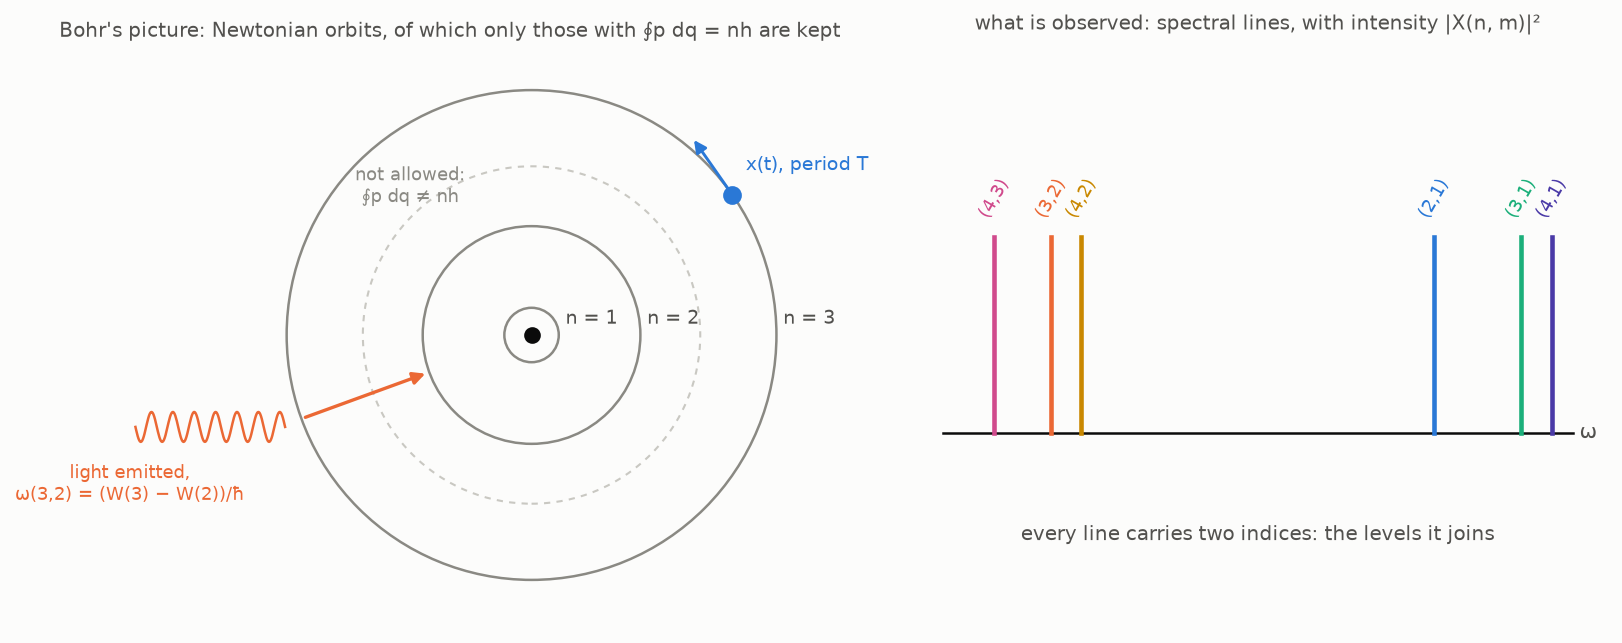
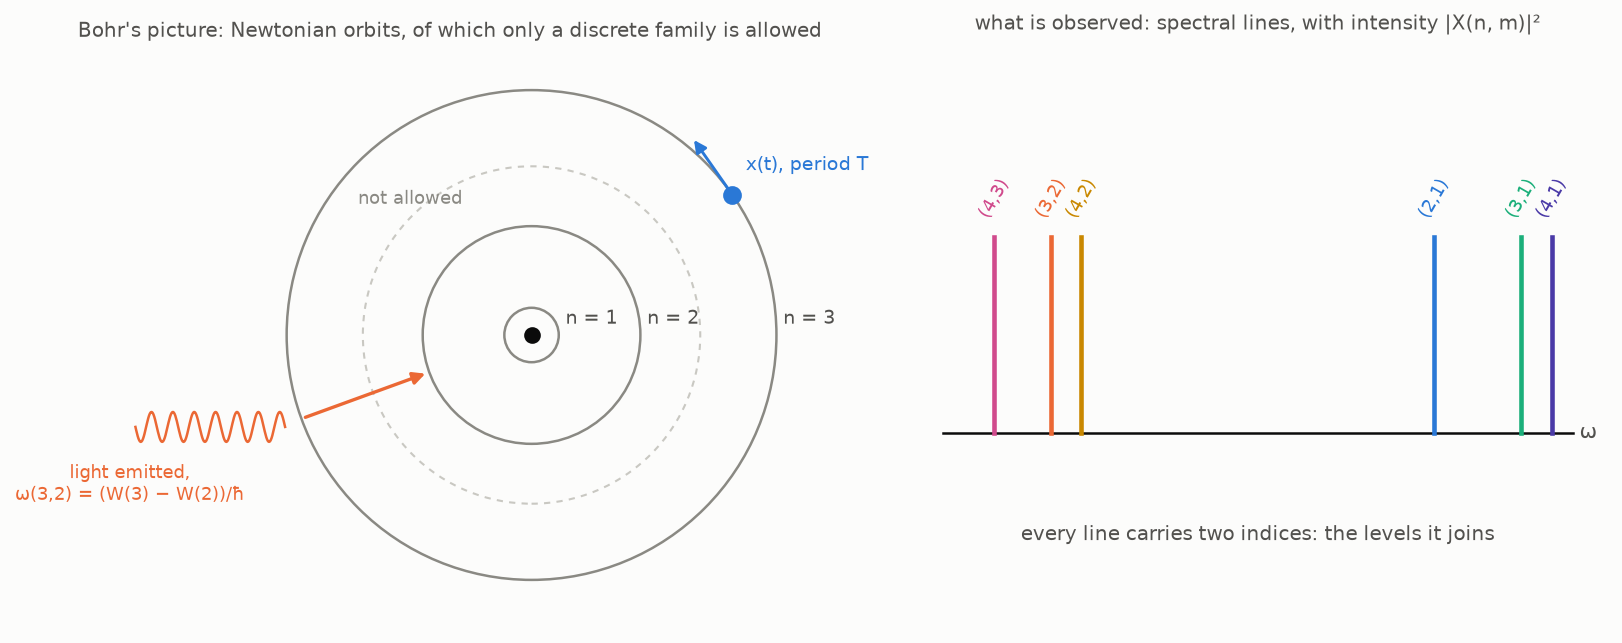
QM-3 draft: Bohr paragraph without the action formula; figure moved right after it and relabelled

Changed region(s): [[0.0308, 0.0311, 0.524, 0.0622], [0.2158, 0.2488, 0.2774, 0.3421]]

diff --git a/content/posts/observables-and-the-born-rule/index.md b/content/posts/observables-and-the-born-rule/index.md
@@ -101,11 +101,15 @@ throughout.
 The old quantum theory of Bohr pictured the electron as a classical
 particle on an orbit, with a position $x(t)$ and a period, and then
 added a rule that Newton's mechanics knows nothing about: of all the
-orbits the mechanics allows, only those are permitted whose action
-$\oint p\, dq$ is a whole multiple of Planck's constant, $nh$. The rule
-picked out the discrete energy levels $W(n)$ and explained the
-hydrogen spectrum; nothing in the theory explained the rule, and for
-atoms beyond hydrogen it failed. Heisenberg's opening move was to
+orbits the mechanics allows, only a discrete family is permitted,
+selected by a condition stated in terms of the orbit itself. The rule
+produced the discrete energy levels $W(n)$ and the hydrogen spectrum;
+nothing in the theory explained the rule, and for atoms beyond
+hydrogen it failed.
+
+![Bohr's picture on the left: Newtonian orbits, of which only a discrete family is kept, an electron with a position and a period, and a jump between orbits that emits light; on the right, what is actually observed — spectral lines, each joining two levels and carrying two indices](bohr_orbits.png)
+
+Heisenberg's opening move was to
 "discard all hope of observing hitherto unobservable quantities, such
 as the position and period of the electron", and to build "a
 theoretical quantum mechanics, analogous to classical mechanics, but
@@ -128,8 +132,6 @@ step — the first of what Aitchison and his coauthors call his
 $X(n, n - \alpha)\, e^{i\omega(n, n - \alpha) t}$ *stand for* the
 position $x(t)$: not a function of time any more, but a table of
 numbers indexed by pairs of states.
-
-![Bohr's picture on the left: Newtonian orbits, of which only those with ∮p dq = nh are kept, an electron with a position and a period, and a jump between orbits that emits light; on the right, what is actually observed — spectral lines, each joining two levels and carrying two indices](bohr_orbits.png)
 
 The multiplication rule followed from the spectral lines themselves.
 Classically $x(t)^2$ is again a Fourier series, with coefficients
